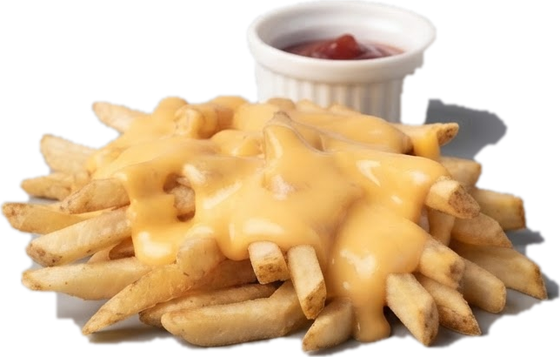
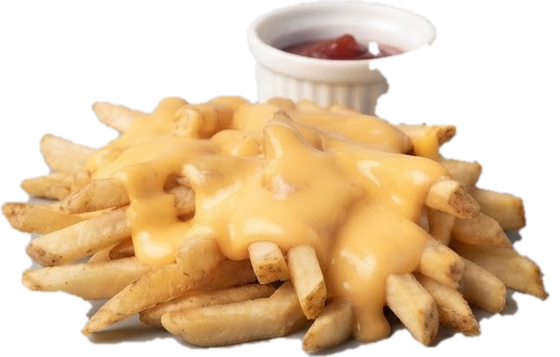
Fotos: Coca y Topo Chico sin fondo blanco (base gana sobre edición), sombras quitadas en hp/pf/pr
Claude-Session: https://claude.ai/code/session_01NL8Zq6rDAZsLXkp4Nsf8ra

diff --git a/lib/restaurantes/tostichelas.ts b/lib/restaurantes/tostichelas.ts
@@ -40,7 +40,7 @@ const MENU:Producto[]=[
  P({id:'pr',cat:'Snacks',name:'Papas fritas',desc:'Con Maggi, tajín, salsa inglesa y limón',ing:['Maggi','tajín','salsa inglesa','limón'],emoji:'🍟',station:'cocina',v:[{l:'Orden',p:60,f:1,s:0}],use:{pap:.25}})
 ];
 /* fotos reales: id del producto -> archivo en /public/tostichelas/p/ (png, fondo transparente) */
-const FOTOS:Record<string,string>={tcm:'/tostichelas/p/tcm.png?v=3',ha:'/tostichelas/p/ha.png?v=3',hp:'/tostichelas/p/hp.png?v=3',pf:'/tostichelas/p/pf.png?v=3',pr:'/tostichelas/p/pr.png?v=3',tar:'/tostichelas/p/tar.png?v=3',tcc:'/tostichelas/p/tcc.png?v=3',tca:'/tostichelas/p/tca.png?v=3',tpo:'/tostichelas/p/tpo.png?v=3',tmi:'/tostichelas/p/tmi.png?v=3',tlo:'/tostichelas/p/tlo.png?v=3',tbi:'/tostichelas/p/tbi.png?v=3',tag:'/tostichelas/p/tag.png?v=3',tce:'/tostichelas/p/tce.png?v=3',cor:'/tostichelas/p/cor.png?v=3',vic:'/tostichelas/p/vic.png?v=3',pac:'/tostichelas/p/pac.png?v=3',xx:'/tostichelas/p/xx.png?v=3',mod:'/tostichelas/p/mod.png?v=3',leo:'/tostichelas/p/leo.png?v=3',ult:'/tostichelas/p/ult.png?v=3',czr:'/tostichelas/p/czr.png?v=3',boi:'/tostichelas/p/boi.png?v=3',min:'/tostichelas/p/min.png?v=3',cln:'/tostichelas/p/cln.png?v=3'};
+const FOTOS:Record<string,string>={tcm:'/tostichelas/p/tcm.png?v=3',ha:'/tostichelas/p/ha.png?v=3',hp:'/tostichelas/p/hp.png?v=4',pf:'/tostichelas/p/pf.png?v=4',pr:'/tostichelas/p/pr.png?v=4',tar:'/tostichelas/p/tar.png?v=3',tcc:'/tostichelas/p/tcc.png?v=3',tca:'/tostichelas/p/tca.png?v=3',tpo:'/tostichelas/p/tpo.png?v=3',tmi:'/tostichelas/p/tmi.png?v=3',tlo:'/tostichelas/p/tlo.png?v=3',tbi:'/tostichelas/p/tbi.png?v=3',tag:'/tostichelas/p/tag.png?v=3',tce:'/tostichelas/p/tce.png?v=3',cor:'/tostichelas/p/cor.png?v=3',vic:'/tostichelas/p/vic.png?v=3',pac:'/tostichelas/p/pac.png?v=3',xx:'/tostichelas/p/xx.png?v=3',mod:'/tostichelas/p/mod.png?v=3',leo:'/tostichelas/p/leo.png?v=3',ult:'/tostichelas/p/ult.png?v=3',czr:'/tostichelas/p/czr.png?v=3',boi:'/tostichelas/p/boi.png?v=3',min:'/tostichelas/p/min.png?v=4',coc:'/tostichelas/p/coc.png?v=4',cln:'/tostichelas/p/cln.png?v=3'};
 MENU.forEach(q=>{if(FOTOS[q.id])q.img=FOTOS[q.id]});
 const CATS:string[]=['Tostadas','Tacos','Cervezas','Bebidas','Snacks'];
 const CATCOL:Record<string,string>={Tostadas:'#7DBB86',Tacos:'#F29A4A',Cervezas:'#F2C14E',Bebidas:'#7FB2E5',Snacks:'#E2573A'};
@@ -133,6 +133,7 @@ export const TOSTICHELAS: RestauranteConfig = {
   estilos: true,
   googleUrl: 'https://maps.app.goo.gl/YdGvYmt1BQdLBU8U9',
   aprobarSiempre: true,
+  imgForzada: ['coc','min'],
   ajustes: { estiloMenu: 'premium', pedMesa: true, aprobar: true, xTQueso: 8, xTAguacate: 8, xTCebolla: 5, xPQueso: 8, xHQueso: 10, xHCarne: 40 },
   // Extras que pidió el cliente. Vienen encendidos con sus precios; el dueño los apaga o cambia en Ajustes.
   extras: [

diff --git a/components/restaurante/engine.ts b/components/restaurante/engine.ts
@@ -782,7 +782,7 @@ function applyMenu(){
  const ids=new Set(MCFG.custom.map(c=>c.id));
  for(let i=MENU.length-1;i>=0;i--)if(MENU[i].custom&&!ids.has(MENU[i].id))MENU.splice(i,1);
  MCFG.custom.forEach(c=>{let q=PM(c.id);if(!q){q=P(Object.assign({custom:true},c));MENU.push(q)}else{const a=q.avail;Object.assign(q,c);q.avail=a}});
- Object.keys(MCFG.edits).forEach(id=>{const q=PM(id),e=MCFG.edits[id];if(!q||q.custom)return;['name','desc','cat','station','img','cost','tag'].forEach(k=>{if(e[k]===undefined)return;if(k==='img'&&q.img&&(!e.img||/^data:/.test(e.img)))return;q[k]=e[k]});if(e.price)e.price.forEach((x,i)=>{if(q.v[i]&&x>0)q.v[i].p=x});if(e.use)q.use=JSON.parse(JSON.stringify(e.use))});
+ Object.keys(MCFG.edits).forEach(id=>{const q=PM(id),e=MCFG.edits[id];if(!q||q.custom)return;['name','desc','cat','station','img','cost','tag'].forEach(k=>{if(e[k]===undefined)return;if(k==='img'&&q.img&&(!e.img||/^data:/.test(e.img)||(CFG.imgForzada||[]).indexOf(id)>=0))return;q[k]=e[k]});if(e.price)e.price.forEach((x,i)=>{if(q.v[i]&&x>0)q.v[i].p=x});if(e.use)q.use=JSON.parse(JSON.stringify(e.use))});
  if(S)MENU.forEach(q=>{if(S.soc.likes[q.id]==null)S.soc.likes[q.id]=0;if(!S.soc.rate[q.id])S.soc.rate[q.id]={n:0,sum:0}});
 }
 const IAPI=CFG.api+'/imagen';

diff --git a/lib/restaurantes/config.ts b/lib/restaurantes/config.ts
@@ -134,6 +134,7 @@ export type RestauranteConfig = {
   googleUrl?: string;
   /** Todo pedido de mesa del cliente espera la aprobación del mesero. */
   aprobarSiempre?: boolean;
+  imgForzada?: string[];
   /** Extras que el dueño enciende o apaga (ajuste `k`: -1 = no se ofrece, >=0 = precio por pieza). */
   extras?: { k: string; g: string; def: number; cats: string[]; ids?: string[]; donde?: string; mult?: number; salsa?: boolean; opciones?: string[] }[];
   /** Ilustraciones SVG por categoría (viewBox 64x64). Si falta, el motor usa las de Tostichelas. */
